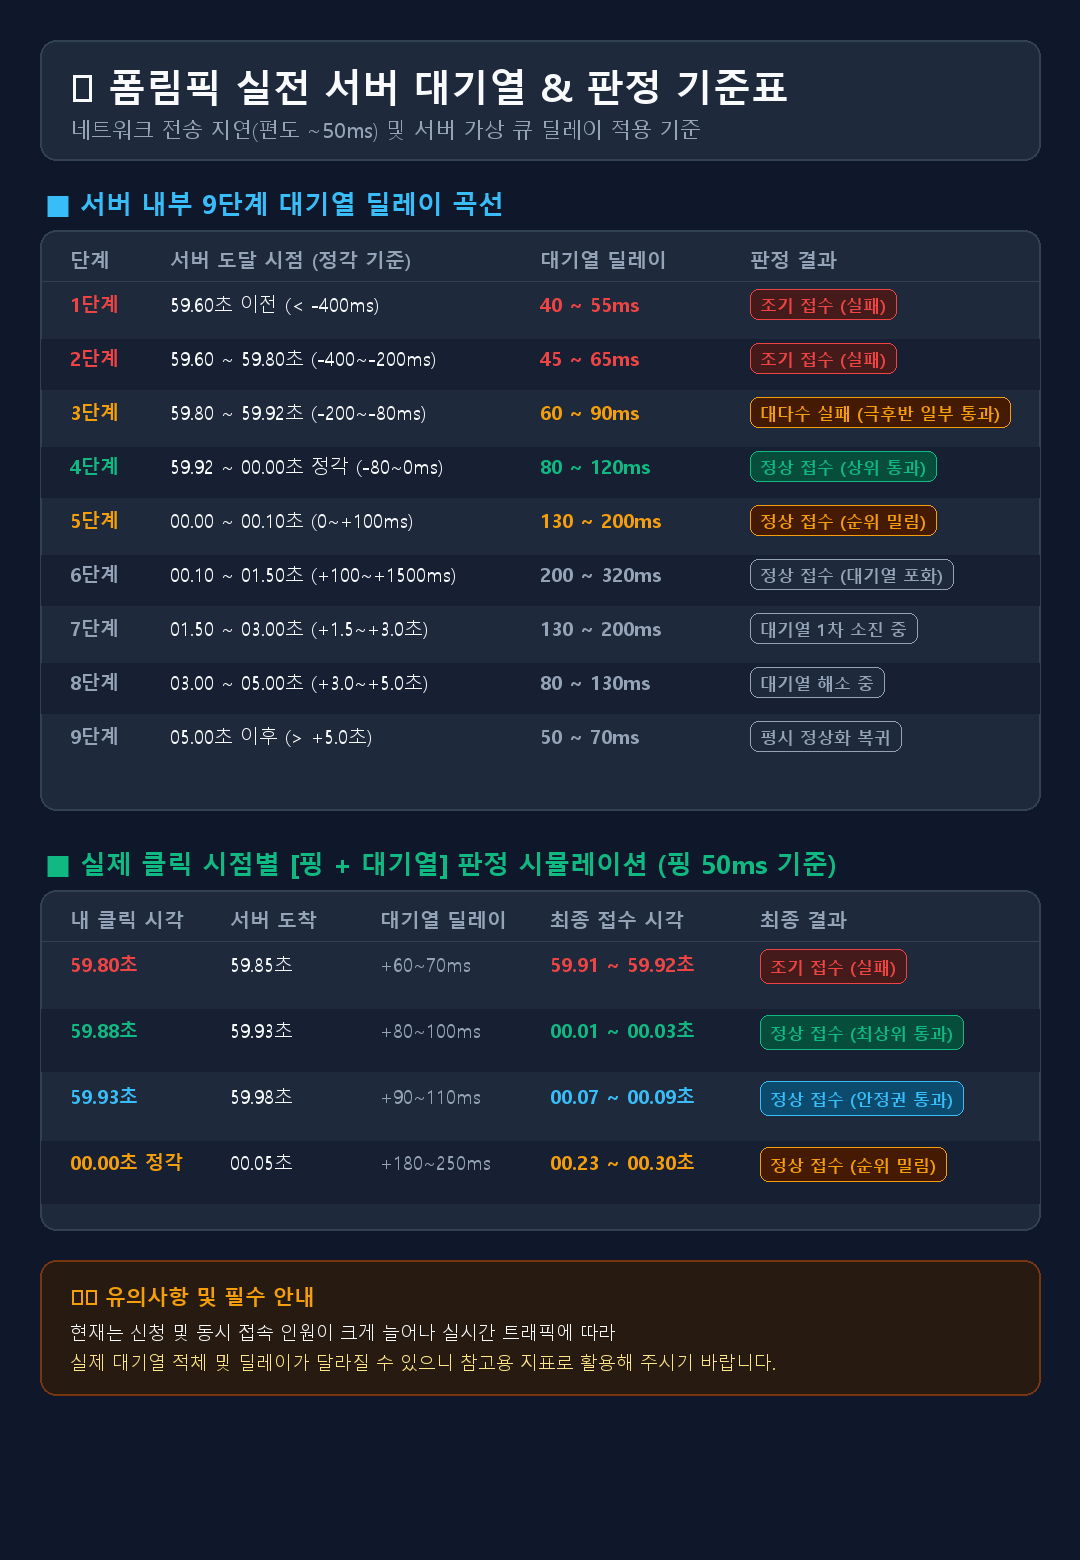
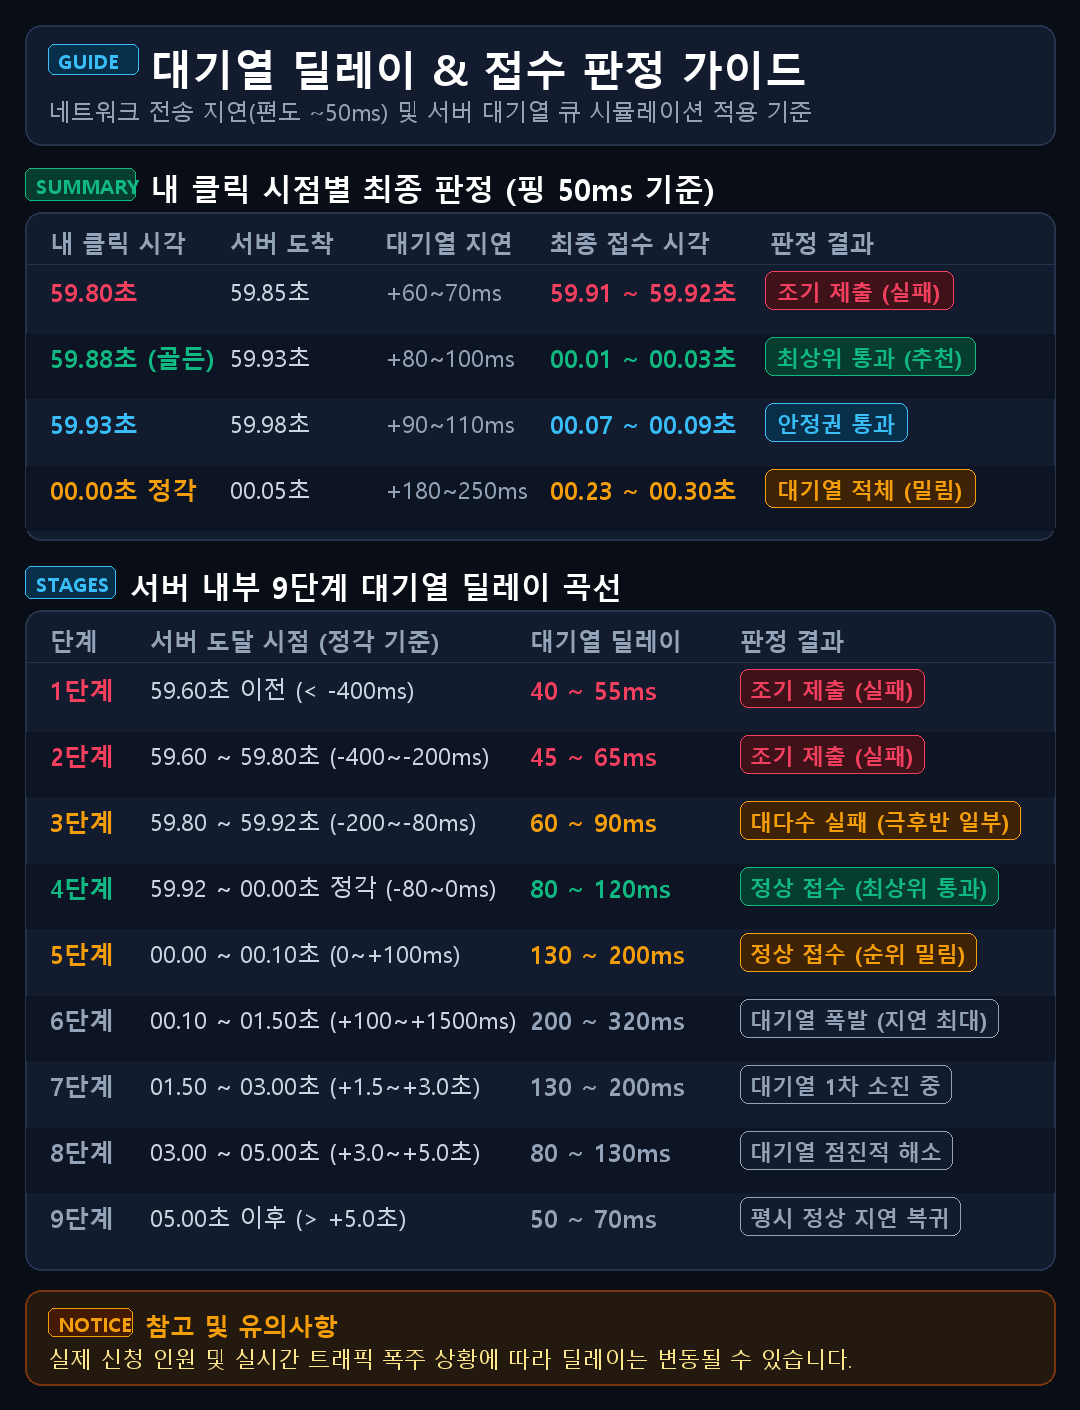
style: enhance delay guide image typography, contrast, and spacing for high readability

diff --git a/src/main/resources/static/index.html b/src/main/resources/static/index.html
@@ -5,7 +5,7 @@
   <meta name="viewport" content="width=device-width, initial-scale=1">
   <title>폼림픽</title>
   <link rel="icon" type="image/png" href="/favicon.png">
-  <link rel="stylesheet" href="/style.css?v=20261025-modal">
+  <link rel="stylesheet" href="/style.css?v=20261025-v3">
 </head>
 <body>
   <header>
@@ -92,12 +92,12 @@
         <button type="button" class="modal-close" onclick="closeDelayModal()" aria-label="닫기">&times;</button>
       </div>
       <div class="modal-body">
-        <img src="/formlimpic_delay_guide.png" alt="대기열 딜레이 안내 표" class="modal-delay-img">
+        <img src="/formlimpic_delay_guide.png?v=20261025-v3" alt="대기열 딜레이 안내 표" class="modal-delay-img">
         <p class="modal-delay-note">※ 실제 신청 인원 및 네트워크 폭주 상황에 따라 딜레이는 변동될 수 있습니다.</p>
       </div>
     </div>
   </div>
-  <script src="/app.js?v=20261025-modal"></script>
+  <script src="/app.js?v=20261025-v3"></script>
   <script>
     function openDelayModal() {
       const m = document.getElementById('delay-modal');
